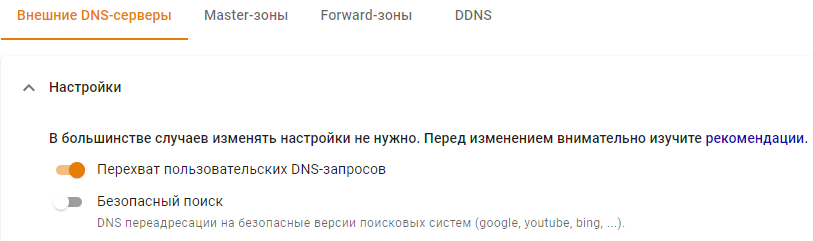
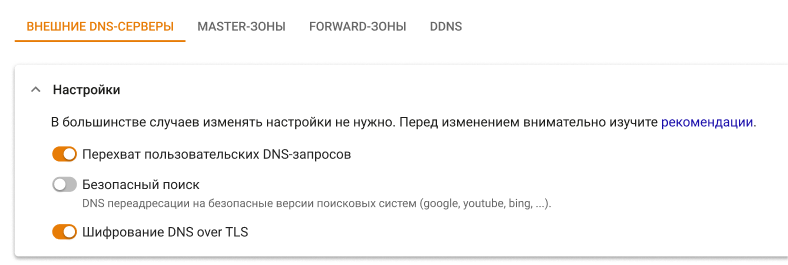
ICS-45511 УТМ. Актуализировать пул статей DNS

diff --git a/settings/services/dns/dns-external.md b/settings/services/dns/dns-external.md
@@ -47,11 +47,14 @@
 
 <summary>Сторонние DNS-серверы для дополнительной фильтрации трафика</summary>
 
-* SkyDNS `193.58.251.251`;
+* SkyDNS при выключенном DNS-over-TLS `193.58.251.251`;
+* SkyDNS при включенном DNS-over-TLS `193.58.251.10`;
 * Yandex DNS `77.88.8.88`, `77.88.8.2`;
 * Google DNS `8.8.8.8`, `8.8.4.4`;
 * Open DNS `208.67.222.222`, `208.67.220.220`, `208.67.222.220`, `208.67.220.222`;
 * Cloudflare DNS `1.1.1.1`, `1.0.0.1`.
+
+
 
 </details>
 
